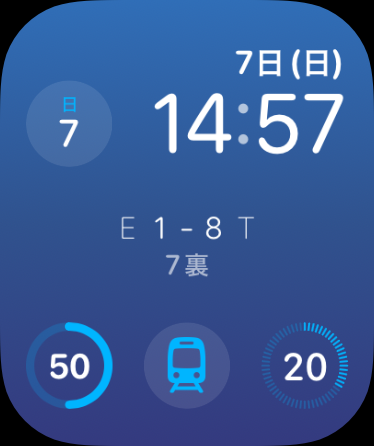
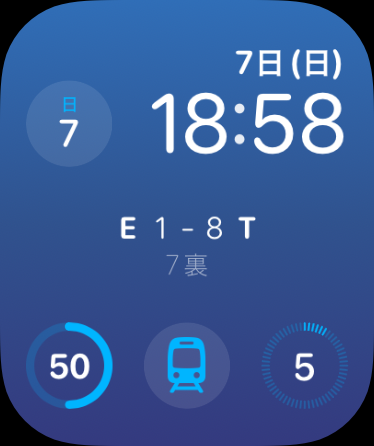
Refine font weights in score display view.
Apply ultraLight to the subtitle and use the default headline weight for team names in the widget to improve visual hierarchy.

diff --git a/Shared/Views/ScoreDisplayView.swift b/Shared/Views/ScoreDisplayView.swift
@@ -62,6 +62,7 @@ struct ScoreDisplayView: View {
                     scoreLine(for: score)
                 }
                 Text(score.subtitleLabelJP)
+                    .fontWeight(.ultraLight)
                     .font(secondaryFont)
                     .foregroundStyle(.secondary)
                     .lineLimit(1)
@@ -182,7 +183,7 @@ struct ScoreDisplayView: View {
     private var teamFont: Font {
         switch style {
         case .widgetRectangular:
-            return .headline.weight(.ultraLight)
+            return .headline
         case .app:
             return .title3
         }
